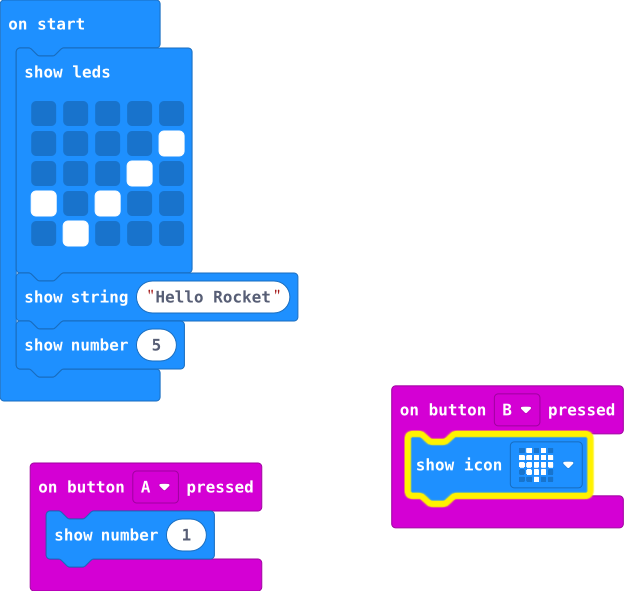
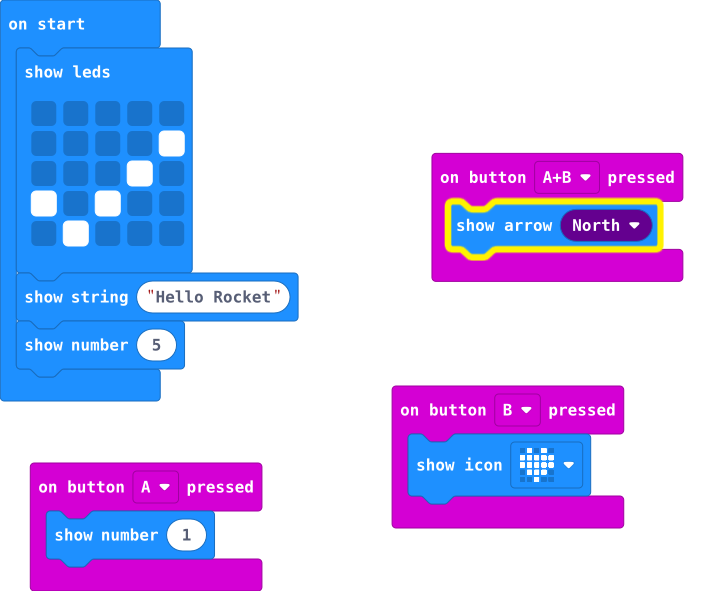
last button from web editor

diff --git a/main.ts b/main.ts
@@ -1,6 +1,9 @@
 input.onButtonPressed(Button.A, function () {
     basic.showNumber(1)
 })
+input.onButtonPressed(Button.AB, function () {
+    basic.showArrow(ArrowNames.North)
+})
 input.onButtonPressed(Button.B, function () {
     basic.showIcon(IconNames.Heart)
 })
